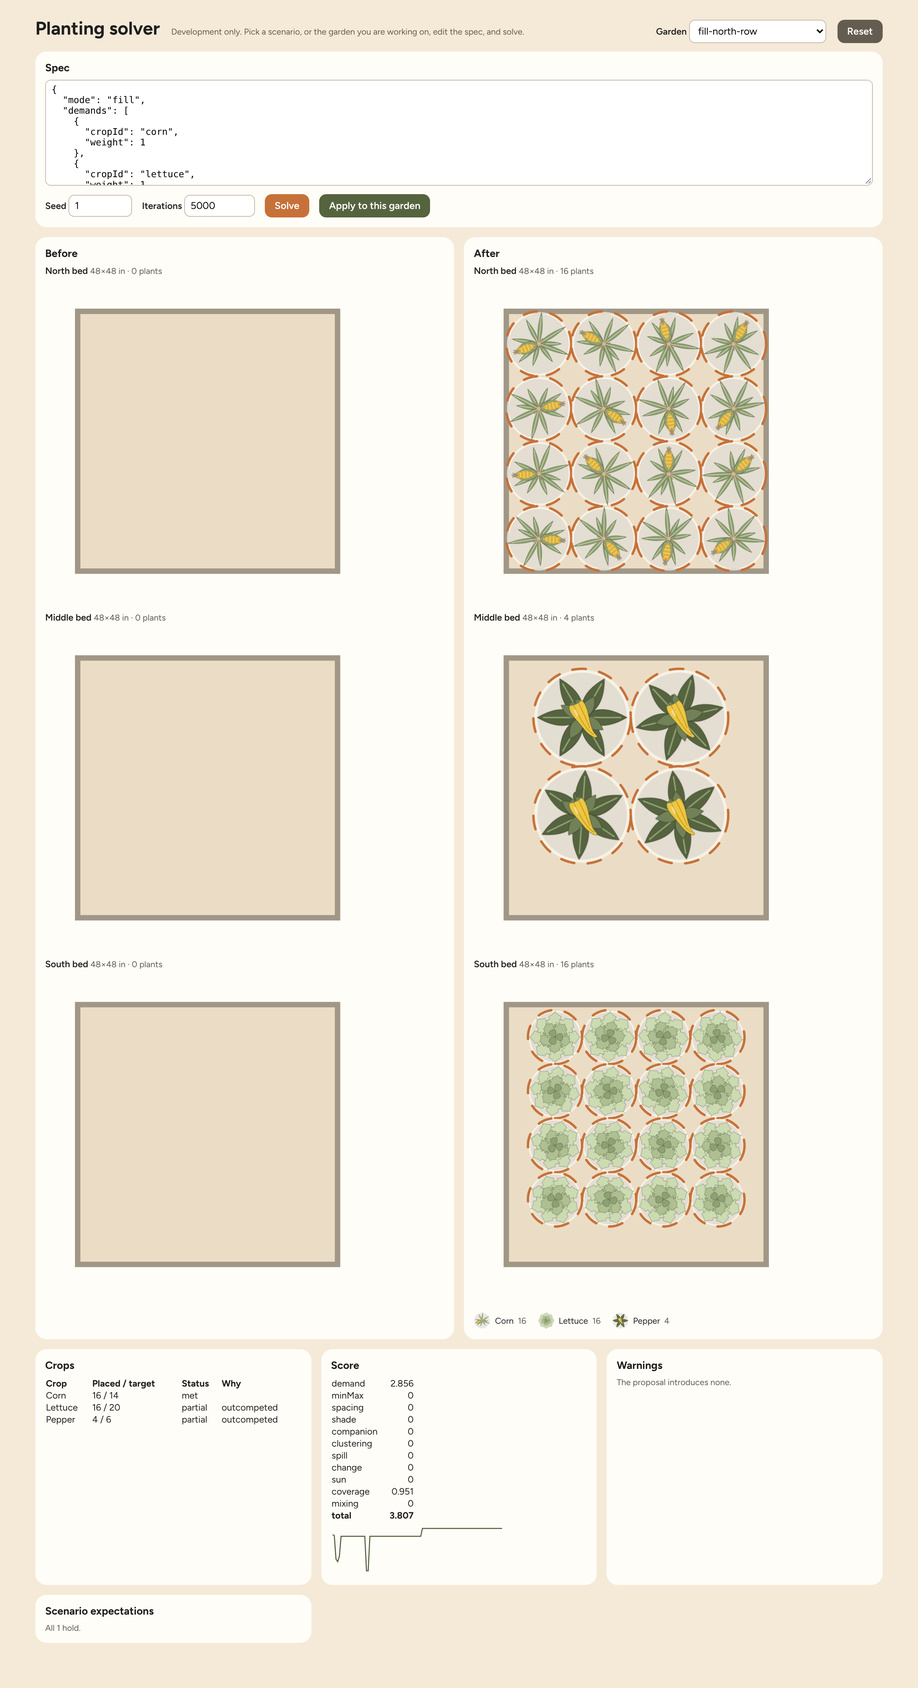
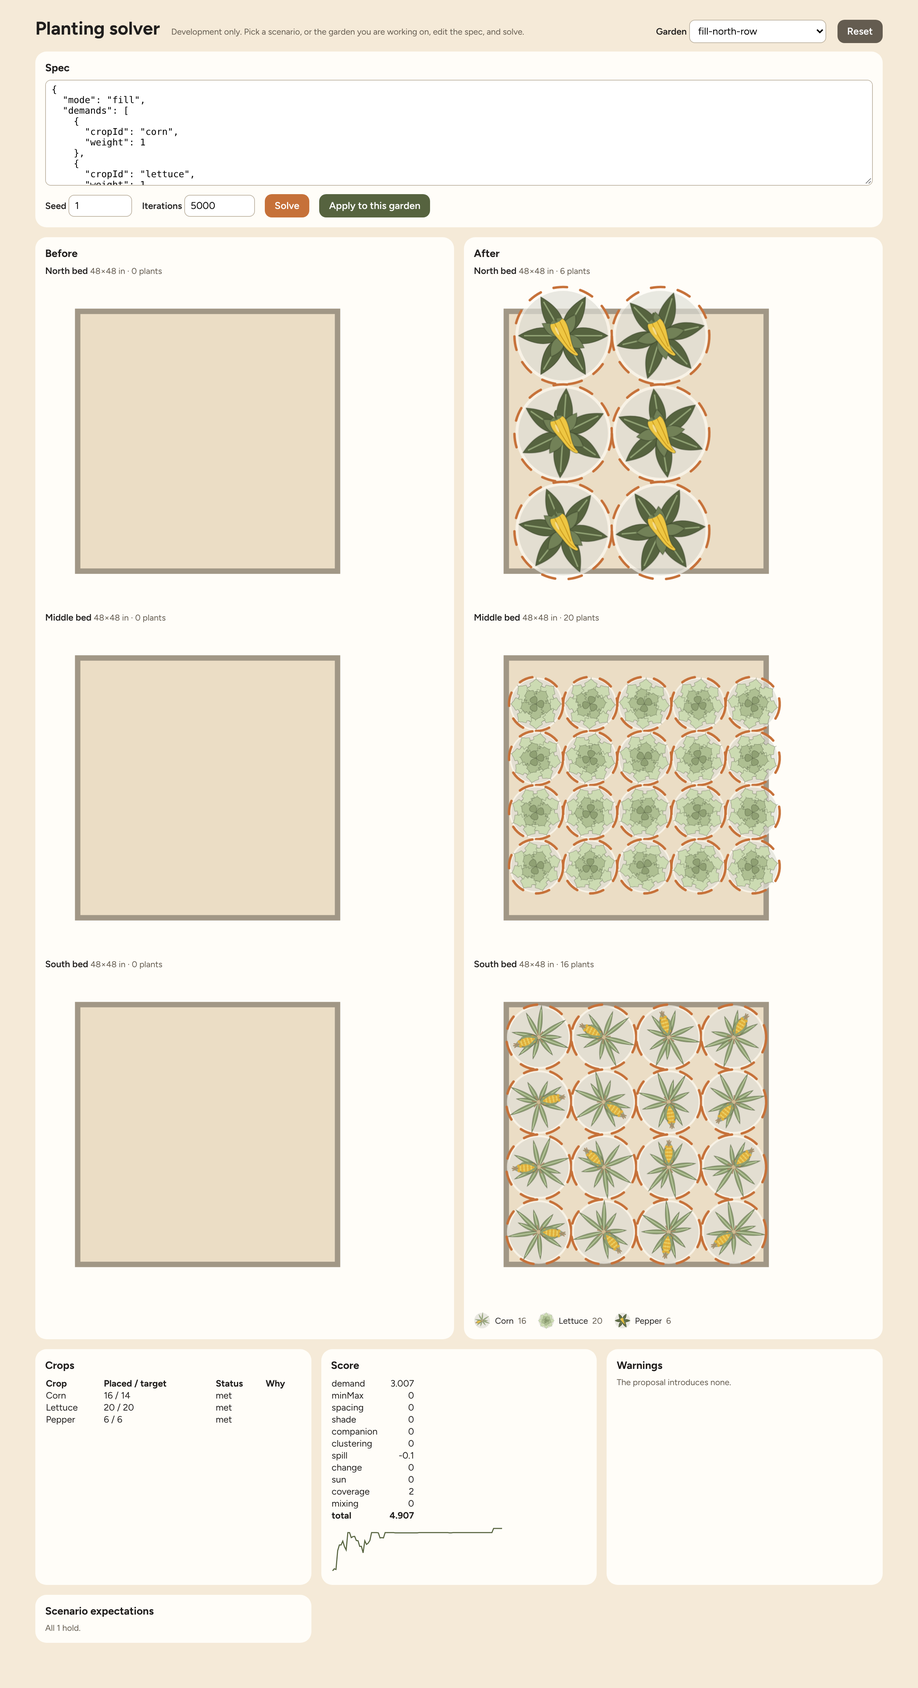
Solver: make edgeClearance relative to the plant, default 0.5
edgeClearance is now a fraction of a plant's growing-room radius (0 on the edge,
0.5 by default so about a quarter of the plant may overhang, 1 the whole room
inside, up to 2 for a margin). Coverage weight raised to 2 so odd-shaped beds
fill better; tests, fixtures, docs and screenshots updated.

Claude-Session: https://claude.ai/code/session_01CfDaK58ze8iFWBnYKfAoaT

diff --git a/src/solver/layoutQuality.test.ts b/src/solver/layoutQuality.test.ts
@@ -16,50 +16,57 @@ const opts = { year: 2026, iterations: 1500 };
 
 describe('edge clearance', () => {
   const tomatoes: PlantingSpec = { mode: 'fill', demands: [{ cropId: 'tomato', weight: 5 }, { cropId: 'pepper', weight: 1 }, { cropId: 'lettuce', weight: 0.5 }] };
+  /** The nearest a plant's center is to a side of the 96 × 48 bed, in inches. */
+  const edgeGap = (q: { x: number; y: number }) => Math.min(q.x, q.y, 96 - q.x, 48 - q.y);
 
-  it('keeps every plant’s whole growing room inside the bed by default', () => {
-    const plan = planOf([bed('b', 96, 48)]);
-    const p = solve(plan, tomatoes, opts);
-    expect(p.plan.plants.length).toBeGreaterThan(6);
-    for (const q of p.plan.plants) {
-      const r = getCrop(q.cropId).spacingIn / 2;
-      expect(q.x, q.cropId).toBeGreaterThanOrEqual(r - 1e-9);
-      expect(q.y, q.cropId).toBeGreaterThanOrEqual(r - 1e-9);
-      expect(q.x, q.cropId).toBeLessThanOrEqual(96 - r + 1e-9);
-      expect(q.y, q.cropId).toBeLessThanOrEqual(48 - r + 1e-9);
-    }
-    expect(p.score.spill).toBe(0);
+  it('keeps a plant’s center half a growing-room radius in from the edge by default, so about a quarter of it overhangs', () => {
+    const p = solve(planOf([bed('b', 96, 48)]), tomatoes, opts);
+    expect(p.plan.plants.length).toBeGreaterThan(8);
+    for (const q of p.plan.plants) expect(edgeGap(q), q.cropId).toBeGreaterThanOrEqual(getCrop(q.cropId).spacingIn / 4 - 1e-9);
+    // Not right on the edge, as before the option existed.
+    expect(p.plan.plants.some((q) => edgeGap(q) < 1)).toBe(false);
   });
 
-  it('does the same in an ellipse, a triangle and a rounded bed', () => {
+  it('is relative to the plant: a big plant stays further in than a small one', () => {
+    const p = solve(planOf([bed('b', 96, 48)]), { mode: 'fill', demands: [{ cropId: 'tomato', weight: 1 }, { cropId: 'radish', weight: 1 }] }, opts);
+    const nearest = (id: string) => Math.min(...p.plan.plants.filter((q) => q.cropId === id).map(edgeGap));
+    expect(nearest('tomato')).toBeGreaterThanOrEqual(6 - 1e-9); // 0.5 × a 12 in radius
+    expect(nearest('radish')).toBeGreaterThanOrEqual(0.5 - 1e-9); // 0.5 × a 1 in radius
+    expect(nearest('radish')).toBeLessThan(nearest('tomato'));
+  });
+
+  it('takes 1 for the whole growing room inside the bed, 0 for right on the edge, above 1 for a margin', () => {
+    const plan = planOf([bed('b', 96, 48)]);
+    const room = solve(plan, { ...tomatoes, edgeClearance: 1 }, opts);
+    for (const q of room.plan.plants) expect(edgeGap(q), q.cropId).toBeGreaterThanOrEqual(getCrop(q.cropId).spacingIn / 2 - 1e-9);
+    expect(room.score.spill).toBe(0);
+    const edge = solve(plan, { ...tomatoes, edgeClearance: 0 }, opts);
+    expect(edge.plan.plants.some((q) => edgeGap(q) === 0)).toBe(true);
+    const margin = solve(plan, { ...tomatoes, edgeClearance: 1.5 }, opts);
+    for (const q of margin.plan.plants) expect(edgeGap(q), q.cropId).toBeGreaterThanOrEqual(getCrop(q.cropId).spacingIn * 0.75 - 1e-9);
+  });
+
+  it('applies in an ellipse, a triangle and a rounded bed', () => {
     const beds = [
       bed('e', 72, 60, { shape: 'ellipse' }),
       bed('t', 72, 60, { shape: 'polygon', points: [{ x: 36, y: 0 }, { x: 72, y: 60 }, { x: 0, y: 60 }], cx: 150 }),
       bed('r', 96, 48, { cornerRadiusIn: 16, cy: 150 }),
     ];
     const p = solve(planOf(beds), tomatoes, opts);
+    expect(p.plan.plants.length).toBeGreaterThan(8);
     for (const q of p.plan.plants) {
       const b = beds.find((x) => x.id === q.bedId)!;
-      expect(insideWithClearance(q, getCrop(q.cropId).spacingIn / 2 - 1e-6, bedOutline(b)), `${q.cropId} in ${b.id}`).toBe(true);
+      expect(insideWithClearance(q, getCrop(q.cropId).spacingIn / 4 - 1e-6, bedOutline(b)), `${q.cropId} in ${b.id}`).toBe(true);
     }
   });
 
-  it('takes a number: that many inches from center to edge, 0 for right on the edge', () => {
-    const plan = planOf([bed('b', 96, 48)]);
-    const edge = solve(plan, { ...tomatoes, edgeClearance: 0 }, opts);
-    expect(edge.plan.plants.some((q) => q.x === 0 || q.y === 0 || q.x === 96 || q.y === 48)).toBe(true);
-    const six = solve(plan, { ...tomatoes, edgeClearance: 6 }, opts);
-    for (const q of six.plan.plants) {
-      expect(Math.min(q.x, q.y, 96 - q.x, 48 - q.y)).toBeGreaterThanOrEqual(6 - 1e-9);
-    }
-    expect(six.plan.plants.some((q) => Math.min(q.x, q.y, 96 - q.x, 48 - q.y) < 12)).toBe(true); // closer than the default tomato room
-  });
-
-  it('leaves a crop out when its room cannot fit in the bed at all', () => {
-    const p = solve(planOf([bed('b', 24, 24)]), { mode: 'fill', demands: [{ cropId: 'squash', weight: 1 }] }, opts);
-    expect(p.crops[0]).toMatchObject({ placed: 0, status: 'unmet', reasons: ['insufficient_space'] });
-    const toEdge = solve(planOf([bed('b', 24, 24)]), { mode: 'fill', edgeClearance: 0, demands: [{ cropId: 'squash', weight: 1 }] }, opts);
-    expect(toEdge.crops[0].placed).toBe(1);
+  it('leaves a crop out when its room cannot fit in the bed at all (a clearance of 1)', () => {
+    const squash = (edgeClearance?: number): PlantingSpec => ({ mode: 'fill', ...(edgeClearance === undefined ? {} : { edgeClearance }), demands: [{ cropId: 'squash', weight: 1 }] });
+    const whole = solve(planOf([bed('b', 24, 24)]), squash(1), opts);
+    expect(whole.crops[0]).toMatchObject({ placed: 0, status: 'unmet', reasons: ['insufficient_space'] });
+    // With the default, a squash (36 in) may overhang a 24 in bed: its center only has to be 9 in from the edge.
+    expect(solve(planOf([bed('b', 24, 24)]), squash(), opts).crops[0].placed).toBe(1);
+    expect(solve(planOf([bed('b', 24, 24)]), squash(0), opts).crops[0].placed).toBe(1);
   });
 });
 
@@ -154,13 +161,12 @@ describe('coverage and tidiness', () => {
     expect(emptiest(1)).toBeGreaterThanOrEqual(emptiest(0) - 1e-9);
   });
 
-  it('sorts the north row into one crop per bed, with the tall corn on the north', () => {
+  it('sorts the north row into one crop per bed with no shade conflict', () => {
     const s = loadScenario('fill-north-row');
     const p = solve(s.plan, s.spec, { year: 2026 });
-    const cropsIn = (id: string) => [...new Set(p.plan.plants.filter((q) => q.bedId === id).map((q) => q.cropId))];
-    for (const id of ['bed-n', 'bed-m', 'bed-s']) expect(cropsIn(id), id).toHaveLength(1);
-    expect(cropsIn('bed-n')).toEqual(['corn']);
+    for (const id of ['bed-n', 'bed-m', 'bed-s']) expect(new Set(p.plan.plants.filter((q) => q.bedId === id).map((q) => q.cropId)).size, id).toBe(1);
     expect(p.score.mixing).toBe(0);
+    expect(p.introducedWarnings.filter((w) => w.kind === 'shade')).toEqual([]);
   });
 
   it('mixes crops in a bed less when tidiness is high than when it is ignored', () => {

diff --git a/src/solver/spec.ts b/src/solver/spec.ts
@@ -47,18 +47,22 @@ export interface PlantingSpec {
   /** Share of the free in-scope area to aim to plant, in (0, 1]. */
   fillRatio?: number;
   /**
-   * How far from a bed's edge a plant must stay. `room` (the default): its whole growing room
-   * (half its spacing) stays inside the bed. A number: its center stays at least that many
-   * inches inside the edge, so 0 lets plants sit right on the edge.
+   * How far a plant's center must stay from a bed's edge, as a fraction of its growing-room
+   * radius (half its spacing), so it scales with the plant. 1: the whole room stays inside the
+   * bed. The default, 0.5: the center sits half a radius in, so about a quarter of the plant
+   * overhangs the edge. 0: plants may sit right on the edge. Above 1 leaves a margin.
    */
-  edgeClearance?: 'room' | number;
+  edgeClearance?: number;
   prefs?: SolvePrefs;
 }
 
 export const DEFAULT_FILL_RATIO = 0.85;
 
-/** The most a numeric `edgeClearance` may be, in inches. */
-export const MAX_EDGE_CLEARANCE_IN = 60;
+/** What `edgeClearance` is when the spec leaves it out: half a growing-room radius. */
+export const DEFAULT_EDGE_CLEARANCE = 0.5;
+
+/** The most `edgeClearance` may be: a margin as wide as a whole plant. */
+export const MAX_EDGE_CLEARANCE = 2;
 
 /** Every preference's value when the spec leaves it out. First guesses, to be tuned with the sweep. */
 export const DEFAULT_PREFS: Readonly<Required<SolvePrefs>> = {
@@ -198,8 +202,8 @@ export function parseSpec(raw: unknown, plan: GardenPlan): ParsedSpec {
     bad('/fillRatio', 'must be a number above 0 and at most 1');
   }
 
-  if (raw.edgeClearance !== undefined && raw.edgeClearance !== 'room' && !(typeof raw.edgeClearance === 'number' && raw.edgeClearance >= 0 && raw.edgeClearance <= MAX_EDGE_CLEARANCE_IN)) {
-    bad('/edgeClearance', `must be "room" or a number of inches from 0 to ${MAX_EDGE_CLEARANCE_IN}`);
+  if (raw.edgeClearance !== undefined && !(typeof raw.edgeClearance === 'number' && raw.edgeClearance >= 0 && raw.edgeClearance <= MAX_EDGE_CLEARANCE)) {
+    bad('/edgeClearance', `must be a number from 0 to ${MAX_EDGE_CLEARANCE}: the share of a plant's growing-room radius its center stays in from the bed edge`);
   }
 
   if (raw.prefs !== undefined) {

diff --git a/src/solver/normalize.ts b/src/solver/normalize.ts
@@ -7,7 +7,7 @@ import { asBlock, blockPoints, minShape, type Block } from './block';
 import { makeGroup, patches } from './groups';
 import { insetArea, plantArea, targetCount } from './allocate';
 import type { Ctx, DemandInfo, Group } from './model';
-import { DEFAULT_FILL_RATIO, DEFAULT_PREFS, type PlantingSpec } from './spec';
+import { DEFAULT_EDGE_CLEARANCE, DEFAULT_FILL_RATIO, DEFAULT_PREFS, type PlantingSpec } from './spec';
 import type { UnmetReason } from './scenario';
 
 /** Whether a crop can ripen before the first fall frost in the garden's zone (crops without a schedule always can). */
@@ -81,7 +81,8 @@ export function normalize(plan: Ctx['plan'], spec: PlantingSpec, year: number): 
   }
 
   // How far a plant of a crop must stay from a bed's edge.
-  const clearanceIn = (cropId: string): number => (typeof spec.edgeClearance === 'number' ? spec.edgeClearance : getCrop(cropId).spacingIn / 2);
+  const edgeClearance = spec.edgeClearance ?? DEFAULT_EDGE_CLEARANCE;
+  const clearanceIn = (cropId: string): number => edgeClearance * (getCrop(cropId).spacingIn / 2);
 
   // Allocation: each crop's share of the free area in the beds it may use. A crop whose target is
   // smaller than the smallest group it is grown in (a lone corn plant) is dropped, and the others'

diff --git a/src/solver/solve.test.ts b/src/solver/solve.test.ts
@@ -1,6 +1,7 @@
 import { describe, expect, it } from 'vitest';
 import type { Bed, GardenPlan, PlantInstance } from '../types';
 import { createPlan } from '../core/reducer';
+import { getCrop } from '../data/crops';
 import { bedToGarden } from '../core/layout';
 import { isInsideOutline } from '../core/geometry';
 import { bedOutline } from '../core/layout';
@@ -180,11 +181,12 @@ describe('filters and reasons', () => {
 });
 
 describe('placement quality', () => {
-  it('lines blocks up on the lattice inside the bed, with the best score a greedy pass finds', () => {
+  it('lines blocks up on the lattice, shifted so one line of it is the crop’s edge clearance', () => {
     const p = solve(planOf([bed('b', 96, 48)]), fill({ cropId: 'pepper', weight: 1 }), opts);
+    const clearance = 0.5 * (getCrop('pepper').spacingIn / 2); // the default: half a growing-room radius
     for (const b of p.blocks) {
-      expect(b.origin.x % 3).toBe(0);
-      expect(b.origin.y % 3).toBe(0);
+      expect(((b.origin.x - clearance) % 3 + 3) % 3).toBeCloseTo(0, 9);
+      expect(((b.origin.y - clearance) % 3 + 3) % 3).toBeCloseTo(0, 9);
     }
     expect(p.score.total).toBeGreaterThan(0.9);
   });

diff --git a/src/solver/adjust.test.ts b/src/solver/adjust.test.ts
@@ -22,7 +22,9 @@ describe('adjust mode', () => {
   it('leaves a patch alone when nothing asks for a change (stability 1, a spec that wants what is there)', () => {
     const before = planOf([bed('b', 96, 48)]);
     const filled = solve(before, { mode: 'fill', demands: [{ cropId: 'lettuce', weight: 1 }, { cropId: 'pepper', weight: 1 }] }, opts);
-    const spec: PlantingSpec = { mode: 'adjust', prefs: { stability: 1 }, demands: [{ cropId: 'lettuce', weight: 1 }, { cropId: 'pepper', weight: 1 }] };
+    // A spec that wants exactly what is there: each crop's count as its min and max, and no coverage to fill the rest.
+    const wants = (id: string) => filled.crops.find((c) => c.cropId === id)!.placed;
+    const spec: PlantingSpec = { mode: 'adjust', prefs: { stability: 1, coverage: 0 }, demands: ['lettuce', 'pepper'].map((cropId) => ({ cropId, weight: 1, min: wants(cropId), max: wants(cropId) })) };
     const again = solve(filled.plan, spec, opts);
     expect(again.commands).toEqual([]);
     expect(again.hardViolations).toEqual([]);

diff --git a/src/solver/spec.test.ts b/src/solver/spec.test.ts
@@ -132,9 +132,9 @@ describe('parseSpec', () => {
   });
 
   describe('edgeClearance', () => {
-    it('takes "room" or 0 to 60 inches', () => {
-      for (const edgeClearance of ['room', 0, 12.5, 60]) expect(parseSpec({ ...ok, edgeClearance }, plan()).ok).toBe(true);
-      for (const edgeClearance of [-1, 60.01, 'edge', null, true]) expect(pathsAndCodes({ ...ok, edgeClearance })).toEqual([['invalid_command', '/edgeClearance']]);
+    it('takes a share of the plant\'s radius, 0 to 2', () => {
+      for (const edgeClearance of [0, 0.5, 1, 2]) expect(parseSpec({ ...ok, edgeClearance }, plan()).ok).toBe(true);
+      for (const edgeClearance of [-0.01, 2.01, 'room', null, true]) expect(pathsAndCodes({ ...ok, edgeClearance })).toEqual([['invalid_command', '/edgeClearance']]);
     });
   });
 

diff --git a/src/solver/search.test.ts b/src/solver/search.test.ts
@@ -13,7 +13,7 @@ const FILL = scenarioNames().filter((n) => loadScenario(n).spec.mode === 'fill')
 describe('local search', () => {
   // Where the greedy pass leaves room to improve, 20 seeds' median must beat it; elsewhere (the
   // coverage term makes the greedy pass good on its own) the search must at least never lose.
-  const IMPROVABLE = ['fill-bed-restricted', 'fill-min-max', 'adjust-locked'];
+  const IMPROVABLE = ['fill-bed-restricted', 'fill-min-max', 'fill-custom-crop', 'fill-north-row'];
 
   it('on the median beats the greedy start over 20 seeds', () => {
     for (const name of IMPROVABLE) {

diff --git a/src/solver/model.ts b/src/solver/model.ts
@@ -63,7 +63,7 @@ export interface Ctx {
   editable: Block[];
   /** Existing patches to remove outright (excluded crops, a replaced scope). */
   removed: string[];
-  /** How far a plant of this crop must stay from a bed's edge, in inches (see `PlantingSpec.edgeClearance`). */
+  /** How far a plant of this crop's center must stay from a bed's edge, in inches (its growing-room radius times `PlantingSpec.edgeClearance`). */
   clearanceIn: (cropId: string) => number;
   /** The unit vector shadows fall along, in garden coordinates. */
   shadowDir: Point;

diff --git a/src/solver/solverSimulation.test.ts b/src/solver/solverSimulation.test.ts
@@ -69,7 +69,7 @@ function randomSpec(next: () => number, plan: GardenPlan, mode: SolveMode): Plan
   }
   if (next() < 0.3) spec.fillRatio = Math.round((0.3 + next() * 0.7) * 100) / 100;
   if (next() < 0.3) spec.prefs = { spacing: next() < 0.5 ? 1 : 0.5, shade: next(), clustering: next(), coverage: next(), tidiness: next() };
-  if (next() < 0.25) spec.edgeClearance = next() < 0.5 ? 'room' : Math.round(next() * 12);
+  if (next() < 0.25) spec.edgeClearance = Math.round(next() * 20) / 10;
   return spec;
 }
 

diff --git a/src/solver/scoring.ts b/src/solver/scoring.ts
@@ -19,7 +19,7 @@ export const SPILL_WEIGHT = 0.04;
 /** Times the share of existing plants removed or moved, in adjust mode. */
 export const CHANGE_WEIGHT = 2;
 /** The most the coverage term adds, when every in-scope bed is planted to the fill ratio. */
-export const COVERAGE_WEIGHT = 1;
+export const COVERAGE_WEIGHT = 2;
 /** Per crop in a bed beyond the first. */
 export const MIX_WEIGHT = 0.15;
 /** Per full-sun plant in a part-shade garden. */

diff --git a/src/solver/README.md b/src/solver/README.md
@@ -81,11 +81,12 @@ Numbered so later milestones can refer to them.
 Examples of bad outcomes were collected in the design doc's review and fixed together. Each of 42 to 48 answers one or more of them.
 
 42. **A weight of 0 means ignore the crop.** `parseSpec` accepts 0 (negatives are still errors). A weight-0 crop gets no target and is never planted, its existing patches are left alone in adjust mode (it is not a demand, so they are not editable), and it still gets a `CropResult` (target 0, placed 0, `met`) so the "every demand has a result" invariant holds. If every weight is 0 nothing is planted and there is nothing to divide by.
-43. **Edge clearance, default `"room"`.** A spec's `edgeClearance` is `"room"` (the default: a plant's whole growing room, half its spacing, stays inside the bed) or a number of inches from a plant's center to the edge (0 puts plants right on the edge, as before). It is a hard constraint, checked by `insideWithClearance` (exact for rectangles, rounded corners and polygons; an ellipse by a shrunk ellipse plus a ring of samples). This reverses the design doc's open-question default ("allow spill, with a soft penalty"), which put tomatoes on the very edge. The spill penalty is kept for numeric clearances smaller than the room. Targets use the bed shrunk by the clearance beyond the room (`insetArea`), and the anchor lattice is shifted so a block can start exactly at the margin. Consequence: a crop whose room cannot fit in a small bed is now `insufficient_space` (a squash in a 24 in bed).
+43. **Edge clearance is relative to the plant, default 0.5.** A spec's `edgeClearance` is a fraction of a plant's growing-room radius (half its spacing): how far in from the bed edge its center must stay. 1 keeps the whole growing room inside the bed, the default 0.5 puts the center half a radius in so about a quarter of the plant overhangs (a tomato's center is 6 in from the edge, a radish's 0.5 in), 0 lets plants sit right on the edge, and up to 2 leaves a margin. It is a hard constraint, checked by `insideWithClearance` (exact for rectangles, rounded corners and polygons; an ellipse by a shrunk ellipse plus a ring of samples). The first version (default: the whole room inside, or an absolute number of inches) put plants too far in for small beds and was absolute for numbers; relative is the better unit because a tomato and a radish want different margins. The design doc's soft spill penalty remains for the overhang. Targets use the bed shrunk by any clearance beyond the room, and the anchor lattice is shifted so a block can start exactly at the margin. A crop whose center cannot fit at all is `insufficient_space` (a squash at clearance 1 in a 24 in bed).
 44. **Minimum group size.** Crop data gets an optional `minBlock` (corn: 3), the fewest plants along each side of a block; other crops normally grown in patches (`defaultPatch`) need at least `MIN_PATCH_PLANTS` (4) in a block, and solo crops (tomato) 1. It is a hard constraint on every block the solver places or resizes (an existing smaller patch keeps its shape and may still be moved). A crop whose target is below its smallest group is dropped before the search with the new reason `below_minimum_group`, and its share goes to the others; a demand's own `min` raises the target, so `min: 9` on corn asks for a whole block. Crops with a `min` are placed first, so they find their room before it is taken.
-45. **Coverage term.** Each in-scope bed earns a concave reward (1 − (1 − r)², r = planted growing-room area over the fill ratio of the bed's area, fixed plants included), weighted by the bed's share of the scope's area and `COVERAGE_WEIGHT` (1) × `prefs.coverage` (default 1). Beds fill evenly instead of the easy rectangle first, and an odd-shaped bed no longer stays nearly empty. The greedy bound includes it, so the branch-and-bound stays valid.
-46. **Tidiness term.** Each crop in a bed beyond the first costs `MIX_WEIGHT` (0.15) × `prefs.tidiness` (default 0.5), fixed patches counted. On `north-row` this gives one crop per bed (corn north, then pepper, then lettuce), which is also the shade-safe order.
+45. **Coverage term.** Each in-scope bed earns a concave reward (1 − (1 − r)², r = planted growing-room area over the fill ratio of the bed's area, fixed plants included), weighted by the bed's share of the scope's area and `COVERAGE_WEIGHT` (2) × `prefs.coverage` (default 1). A weight of 1 left a triangular bed 37% planted; 2 gives 56%. Beds fill evenly instead of the easy rectangle first, and an odd-shaped bed no longer stays nearly empty. The greedy bound includes it, so the branch-and-bound stays valid.
+46. **Tidiness term.** Each crop in a bed beyond the first costs `MIX_WEIGHT` (0.15) × `prefs.tidiness` (default 0.5), fixed patches counted. On `north-row` this gives one crop per bed. The order is whatever the shade rule allows: lettuce is shade-tolerant, so corn may sit south of it, and a user who wants the tall crop north has to say so (a bed-level restriction on the demand).
 47. **The search can add any crop**, not just ones below target (70% of "add" moves still go to under-target crops), so room left after the targets are met can be used. New blocks start at no less than the crop's smallest group.
 48. **Default iterations 5000** (was 3000), in `solve` and the viewer. With the coverage term the greedy start is much better, so the search's median gain over it is smaller (0 to 0.18 in `--sweep`); the tests require a strict win only where there is room (`fill-bed-restricted`, `fill-min-max`, `adjust-locked`) and "never worse" everywhere. The slowest scenarios take well under a second at 5000.
 49. **Viewer.** Hovering a plant names it (crop, spacing, "proposed"), a legend lists the crops and counts in each panel, and proposed plants sit on a light disc with a thin dashed ring that turns slowly (CSS, off under `prefers-reduced-motion`).
 50. **Not done yet, from the same review:** whole-bed moves in the search ("make this bed all lettuce"), shape-specific fill patterns for curved and triangular beds, and block alignment or symmetry terms. Turning "remove the lettuce in the middle bed" into a command is the assistant layer's job (`removePatch` already exists); a spec cannot express a pure removal because it needs at least one demand.
+51. **Adjust mode now fills gaps too.** With the coverage term and a roomier edge, an `adjust` spec that merely repeats what is there no longer emits nothing, because there is space left to plant. The 'no-op with stability 1' test therefore pins each crop's count with `min` and `max` and turns coverage off.

diff --git a/README.md b/README.md
@@ -114,7 +114,7 @@ says only *what* you want. Its output is ordinary API commands, checked with a d
 | **Scope** | The beds the solver may plant in. Plants outside it are never touched, but still count for spacing and shade. |
 | **Locked / exclude** | Locked patches are never touched. An excluded crop is not planted, and in `adjust` and `replace` its existing patches in scope are removed. |
 | **Fill ratio** | The share of free space to aim to plant (default 0.85). |
-| **Edge clearance** | How far plants stay from a bed's edge: by default a plant's whole growing room stays inside the bed; a number sets the distance from its center, and 0 allows plants right on the edge. |
+| **Edge clearance** | How far in from a bed's edge a plant's center must stay, as a share of the plant's own growing-room radius: 0.5 by default (about a quarter of the plant may overhang), 1 keeps the whole plant inside, 0 allows plants right on the edge. |
 | **Minimum group** | The smallest block a crop is planted in: corn needs at least 3 by 3 (it is wind-pollinated), crops grown in patches at least 4 plants. A crop that would get fewer is left out and says so. |
 | **Preferences** | How much the solver minds each cost: spacing, shade, companions, clustering, coverage (using each bed's share of the space), tidiness (several crops in one bed), and (in `adjust`) disturbing what is there. |
 | **Block** | The solver's unit of planting: a rectangular grid of one crop at its spacing in one bed, which becomes one patch. |
